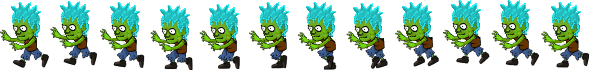
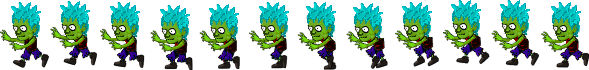
complete skin 2 for zombie

diff --git a/tests.html b/tests.html
@@ -1,0 +1,34 @@
+<!DOCTYPE html>
+<html>
+<head>
+    <title>clicker "Defender"</title>
+    <meta charset='utf-8'>
+    <link rel='stylesheet' href='styles.css' type='text/css' charset='utf-8'>
+    <link rel='stylesheet' href='fonts.css' type='text/css' charset='utf-8'>
+</head>
+<body>
+    <canvas width="1920" height="882" id='canvas'></canvas>
+    <script type='text/javascript' src='app/extensions.js'></script>
+    <script type='text/javascript' src='app/Helper.js'></script>
+    <script type='text/javascript' src='app/Draw.js'></script>
+    <script type='text/javascript' src='app/FPS.js'></script>
+    <script type='text/javascript' src='app/Mouse.js'></script>
+    <script type='text/javascript' src='app/Monster.js'></script>
+    <script type='text/javascript' src='app/Monsters.js'></script>
+    <script type='text/javascript' src='app/monsters/Zombie.js'></script>
+    <script type='text/javascript' src='app/Building.js'></script>
+    <script type='text/javascript' src='app/Buildings.js'></script>
+    <script type='text/javascript' src='app/buildings/FlyEarth.js'></script>
+    <script type='text/javascript' src='app/buildings/FlyEarthRope.js'></script>
+    <script type='text/javascript' src='app/Coin.js'></script>
+    <script type='text/javascript' src='app/Coins.js'></script>
+    <script type='text/javascript' src='app/Gamer.js'></script>
+    <script type='text/javascript' src='app/Cursor.js'></script>
+    <script type='text/javascript' src='app/Label.js'></script>
+    <script type='text/javascript' src='app/Labels.js'></script>
+    <script type='text/javascript' src='app/WaveData.js'></script>
+    <script type='text/javascript' src='app/Waves.js'></script>
+    <script type='text/javascript' src='app/Game.js'></script>
+    <script type='text/javascript' src='tests.js'></script>
+</body>
+</html>

diff --git a/app/monsters/Zombie.js b/app/monsters/Zombie.js
@@ -2,19 +2,28 @@ class Zombie extends Monster{
 
 	static image1 = new Image();
 	static image2 = new Image();
-	static attackImage = new Image();
+	static attackImage1 = new Image();
+	static attackImage2 = new Image();
 	static name = 'zombie';
 
 	constructor(x, y, isLeftSide) {
-		let selectedImage = Helper.getRandom(1, 3) == 1 
+
+		let random = Helper.getRandom(1, 3);
+		let selectedImage = random == 1 
 			? Zombie.image2 
 			: Zombie.image1;
-		super(x, y, isLeftSide, true, Zombie.name, selectedImage, 12,  49, Zombie.attackImage, 4, 48, 5, 3, 1, 50);
+
+		let selectedAttackImage = random == 1
+			? Zombie.attackImage2
+			: Zombie.attackImage1;
+
+		super(x, y, isLeftSide, true, Zombie.name, selectedImage, 12,  49, selectedAttackImage, 4, 48, 5, 3, 1, 50);
 	}
 
 	static init(){
 		Zombie.image1.src = './media/img/monsters/zombie.png';
 		Zombie.image2.src = './media/img/monsters/zombie2.png'; 
-		Zombie.attackImage.src = './media/img/monsters/zombieAttack.png';
+		Zombie.attackImage1.src = './media/img/monsters/zombieAttack.png';
+		Zombie.attackImage2.src = './media/img/monsters/zombieAttack2.png';
 	}
 }

diff --git a/app/Game.js b/app/Game.js
@@ -29,7 +29,8 @@ class Game{
 		Game.images.push(Coin.image);
 		Game.images.push(Zombie.image1);
 		Game.images.push(Zombie.image2);
-		Game.images.push(Zombie.attackImage);
+		Game.images.push(Zombie.attackImage1);
+		Game.images.push(Zombie.attackImage2);
 
 		Cursor.setCursor(Cursor.default);
 

diff --git a/tests.js b/tests.js
@@ -1,0 +1,4 @@
+Game.init();
+
+let z2 = new Zombie(800, 802, true);
+Monsters.all.push(z2);
